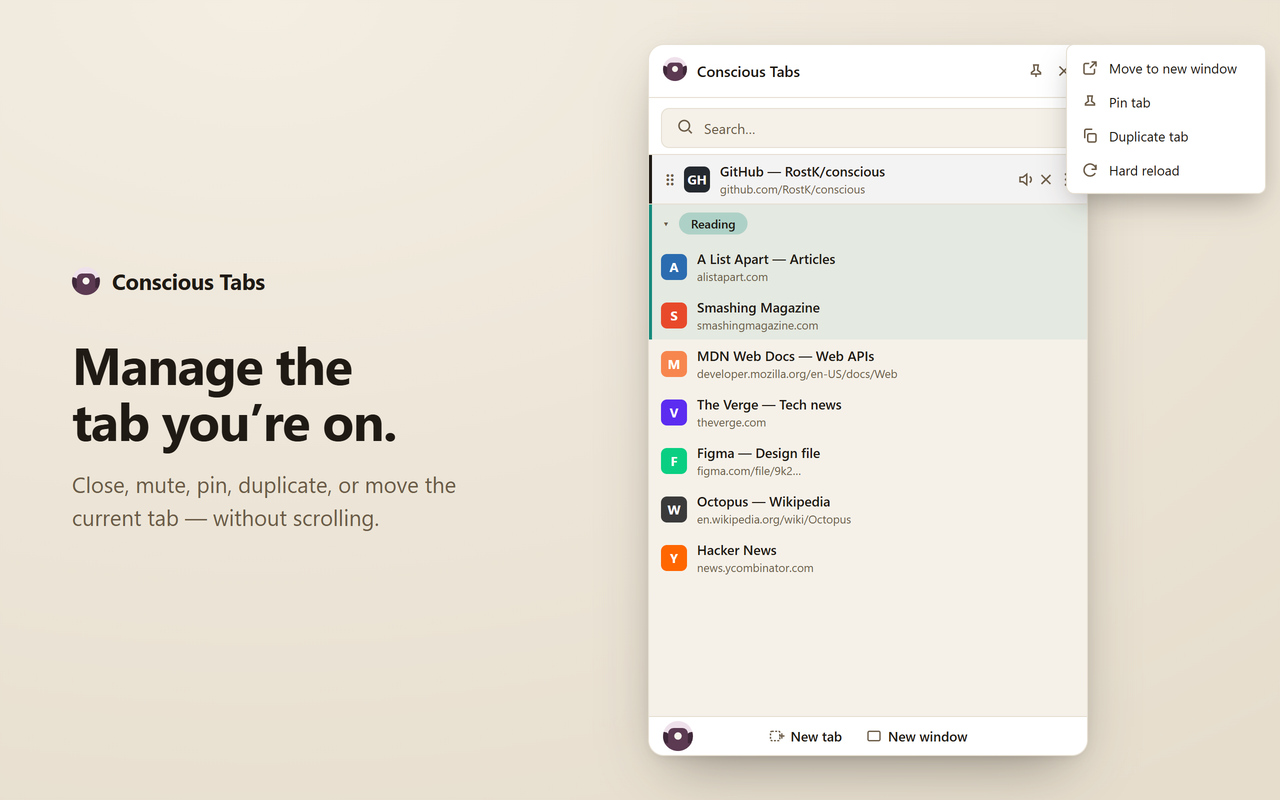
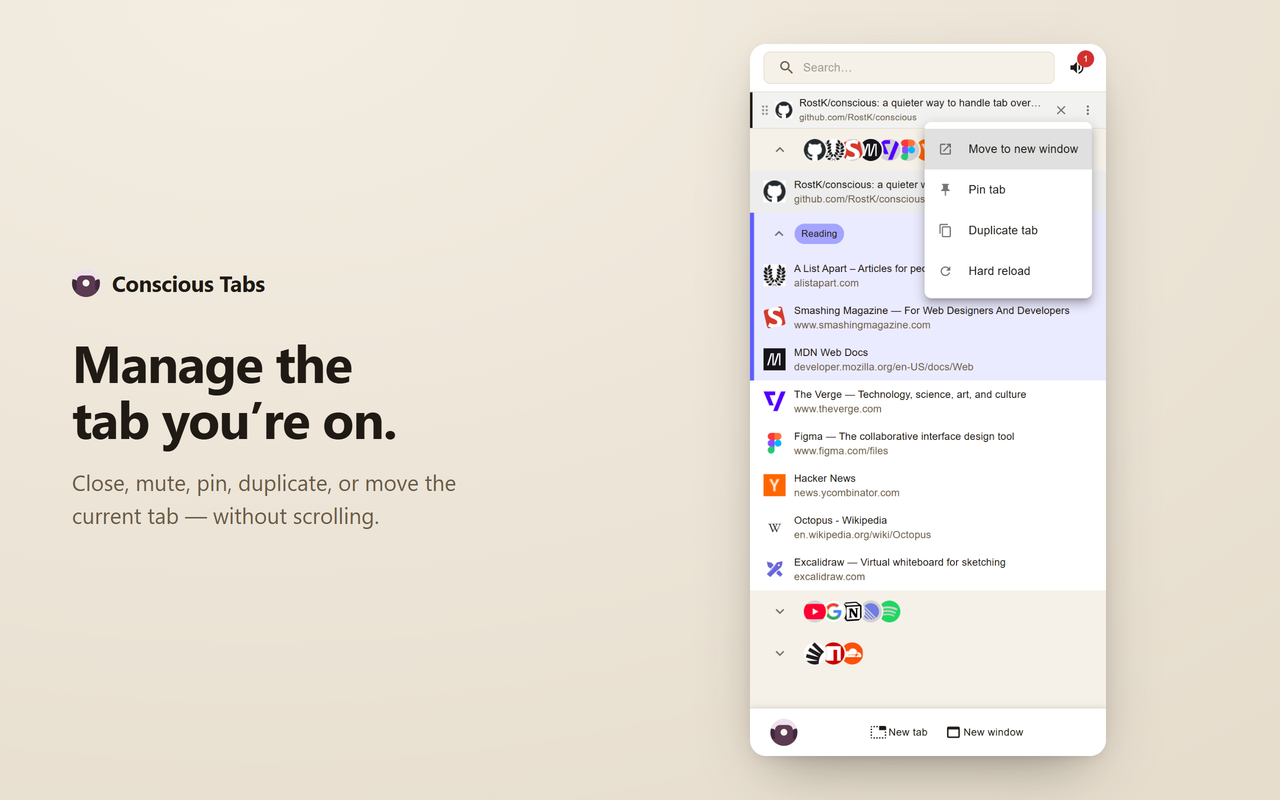
Replace mockups with real extension screenshots
Regenerate the store screenshots by running the actual production build as a
webpage with a chrome.* demo-data shim (curated tabs across one focused + two
collapsed windows, no personal data), driving its real interactions (search,
select, current-tab menu, dark) and framing the result. These are real UI
captures, not hand-built mockups.

diff --git a/store-listing.md b/store-listing.md
@@ -91,9 +91,12 @@ Recommended set, in order:
 
 ### Ready-to-upload assets
 
-Promotional 1280×800 mockups matching the set above are generated in
-`store-assets/` — faithful to the real UI (exact brand tokens and layout),
-built with neutral demo tabs so no personal data is shown:
+Ready 1280×800 screenshots are in `store-assets/`. These are **real captures of
+the actual extension** — the production build running with a `chrome.*`
+demo-data shim (curated neutral tabs across one focused + two collapsed
+windows) so no personal data appears — driven through its real interactions
+(search typed, tabs selected, the current-tab menu opened, dark theme
+emulated) and composited onto the branded frame:
 
 | File | Scene |
 | --- | --- |
@@ -102,9 +105,6 @@ built with neutral demo tabs so no personal data is shown:
 | `store-assets/03-multiselect.png` | Multi-select + bulk actions |
 | `store-assets/04-current-tab.png` | Current-tab quick-action menu |
 | `store-assets/05-dark-mode.png` | Dark mode |
-
-> These are illustrative mockups. If you'd prefer real captures, take them from
-> a clean demo profile per the guidance above and swap them in.
 
 Optional promo assets (dashboard only, not required):
 - Small promo tile **440×280**, marquee **1400×560** — use the paper background
